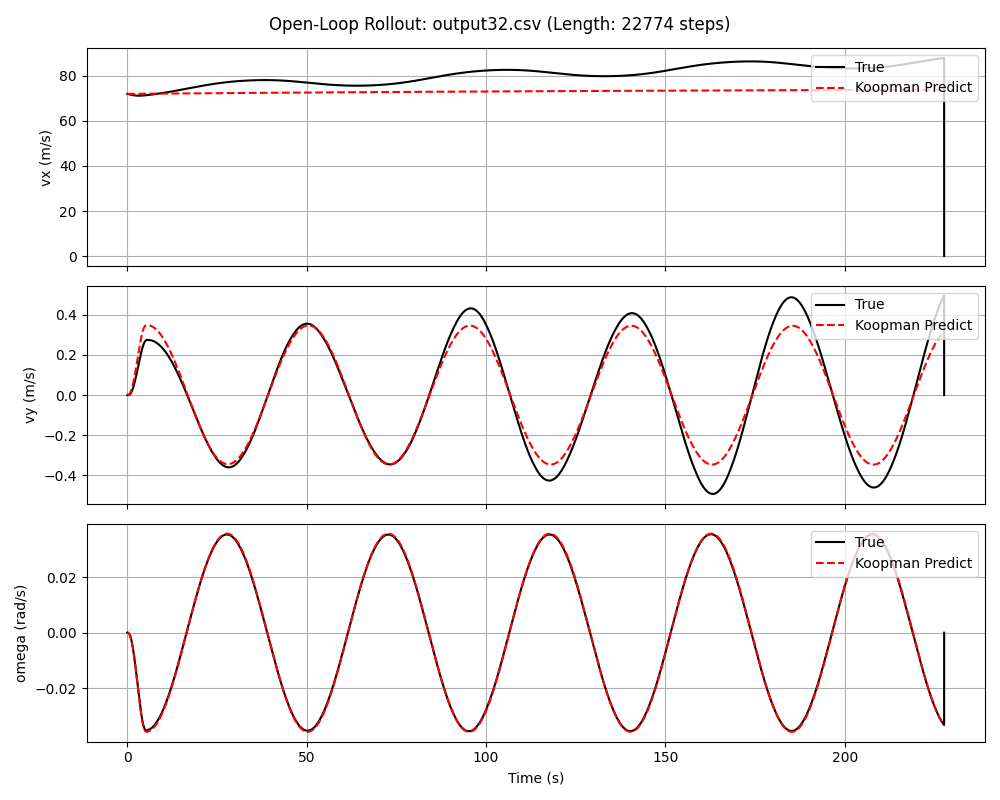
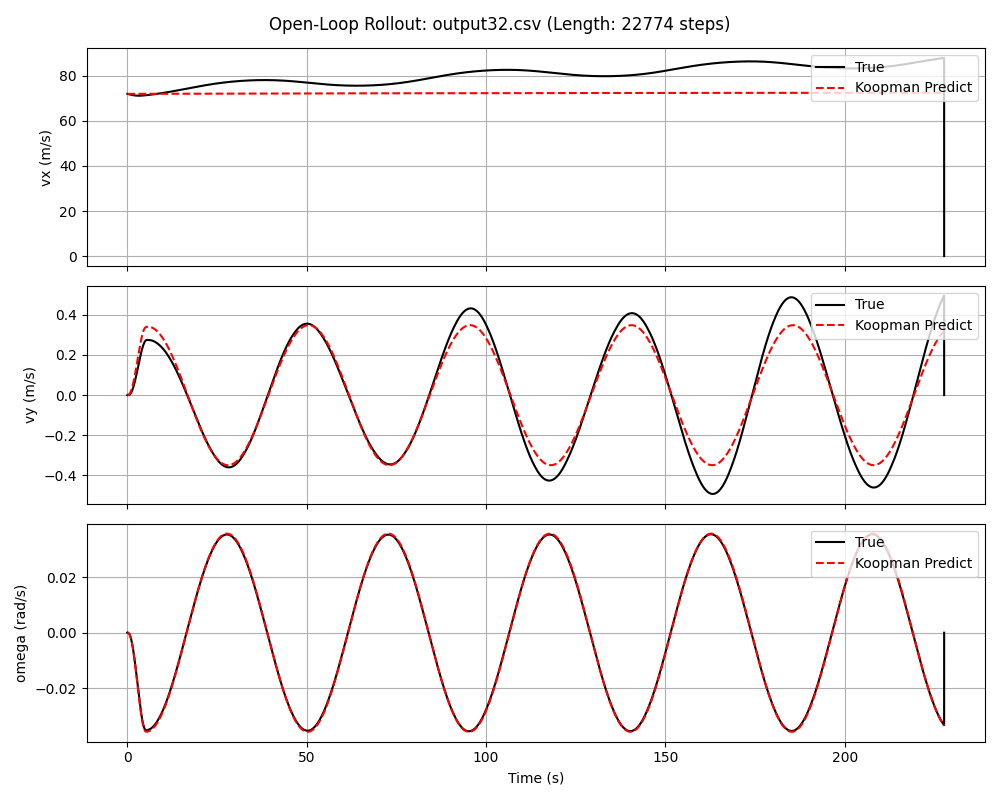
update dataset split to 60/5/5 and refresh results

diff --git a/data_loader.py b/data_loader.py
@@ -6,7 +6,7 @@ import random
 from sklearn.preprocessing import StandardScaler
 import pickle
 
-def load_and_preprocess_data(data_dir, split_ratio=(49, 10, 11), seed=42):
+def load_and_preprocess_data(data_dir, split_ratio=(60, 5, 5), seed=42):
     """
     Loads trajectories from CSV files, drops irregular timesteps, splits by trajectory,
     scales data, and generates one-step transition pairs.
@@ -139,4 +139,4 @@ def load_and_preprocess_data(data_dir, split_ratio=(49, 10, 11), seed=42):
 
 if __name__ == "__main__":
     # Test the loader
-    data = load_and_preprocess_data('data/dataset', split_ratio=(49, 10, 11))
+    data = load_and_preprocess_data('data/dataset', split_ratio=(60, 5, 5))

diff --git a/main.py b/main.py
@@ -9,7 +9,7 @@ def main():
     
     # 1. Load Data
     data_dir = 'data/dataset'
-    data = load_and_preprocess_data(data_dir, split_ratio=(49, 10, 11))
+    data = load_and_preprocess_data(data_dir, split_ratio=(60, 5, 5))
     
     X_train, U_train, X_prime_train, train_scaled = data['train']
     X_val, U_val, X_prime_val, val_scaled = data['val']

diff --git a/README.md b/README.md
@@ -15,14 +15,14 @@ The resulting $A$ and $B$ matrices are sparse and highly predictive over long ho
 * **Multi-Step Open-Loop Validation**: Extensively validates the identified linear map's stability by predicting up to 30,000 steps forward in open-loop.
 
 ## Project Structure
-* `data_loader.py` - Parses the dataset, splits into Train/Val/Test, cleans irregular time steps, scales inputs/states on the train set, and prepares one-step transition pairs.
+* `data_loader.py` - Parses the dataset, splits into Train/Val/Test (60/5/5), cleans irregular time steps, scales inputs/states on the train set, and prepares one-step transition pairs.
 * `lifting.py` - Implements the $\phi(x)$ Koopman lifting dictionary. Expands the base state $[v_x, v_y, \omega]$ with polynomial terms up to degree 2 (creating 9 dimensions).
 * `koopman_fit.py` - Implements the STLSQ sparse regression using PySINDy. Sweeps over a grid of sparsity threshold values ($\lambda$) to find the optimal balance between accuracy and sparsity.
 * `validate.py` - Runs both one-step-ahead validation metrics (RMSE, MAE) and long-horizon multi-step (open-loop) rollouts on the Test set trajectories, generating comparison plots.
 * `main.py` - The primary orchestration script tying all components together.
 
 ## Performance Results
-The model was trained on roughly **1.2 million transition pairs** and validated against 11 entirely unseen test trajectories.
+The model was trained on roughly **1.46 million transition pairs** (from 60 training trajectories) and validated against 5 entirely unseen test trajectories.
 * **Optimal Sparsity**: With a threshold of $\lambda = 0.005$, the final $A$ matrix contains only 11 non-zero terms out of 81, and $B$ contains 3 out of 18. All 9 lifted features contribute to the final system.
 * **Predictive Accuracy**: Over long open-loop rollouts extending up to 29,000 continuous steps (290 seconds), the model demonstrated incredible stability.
     * Yaw rate ($\omega$) RMSE $\approx 0.0007$ rad/s
